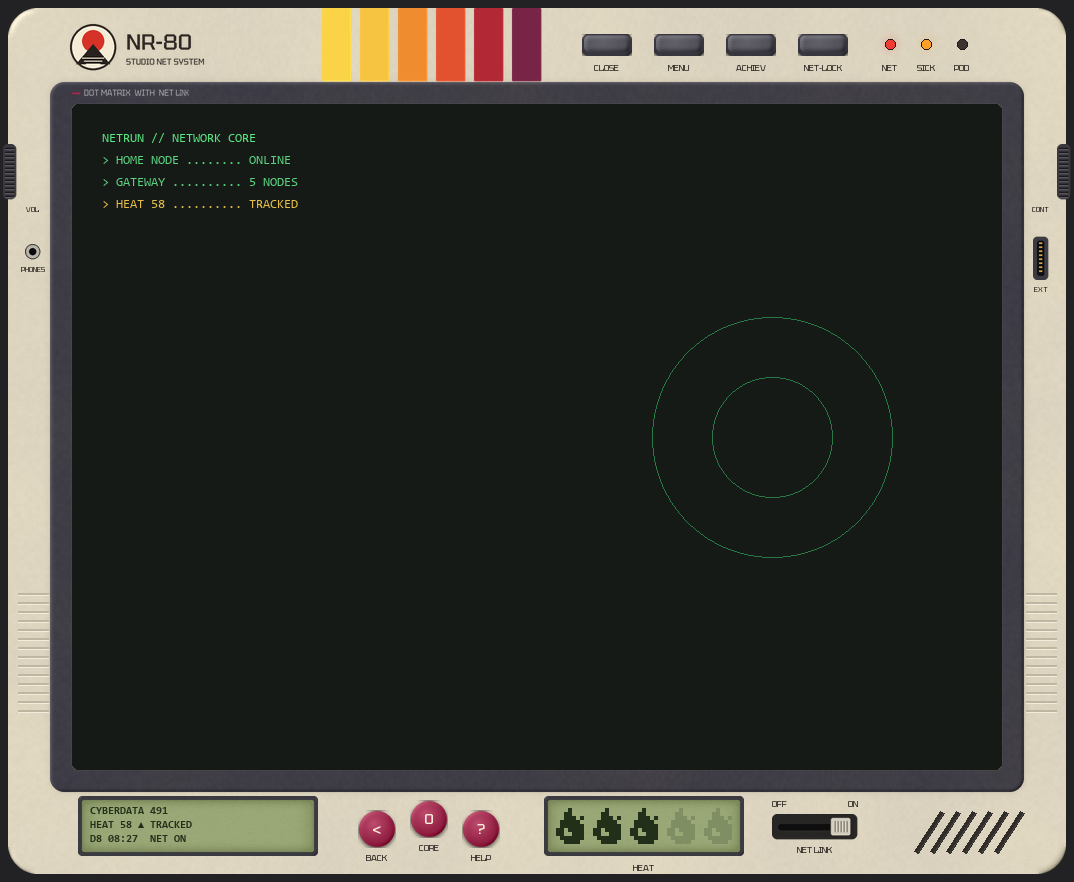
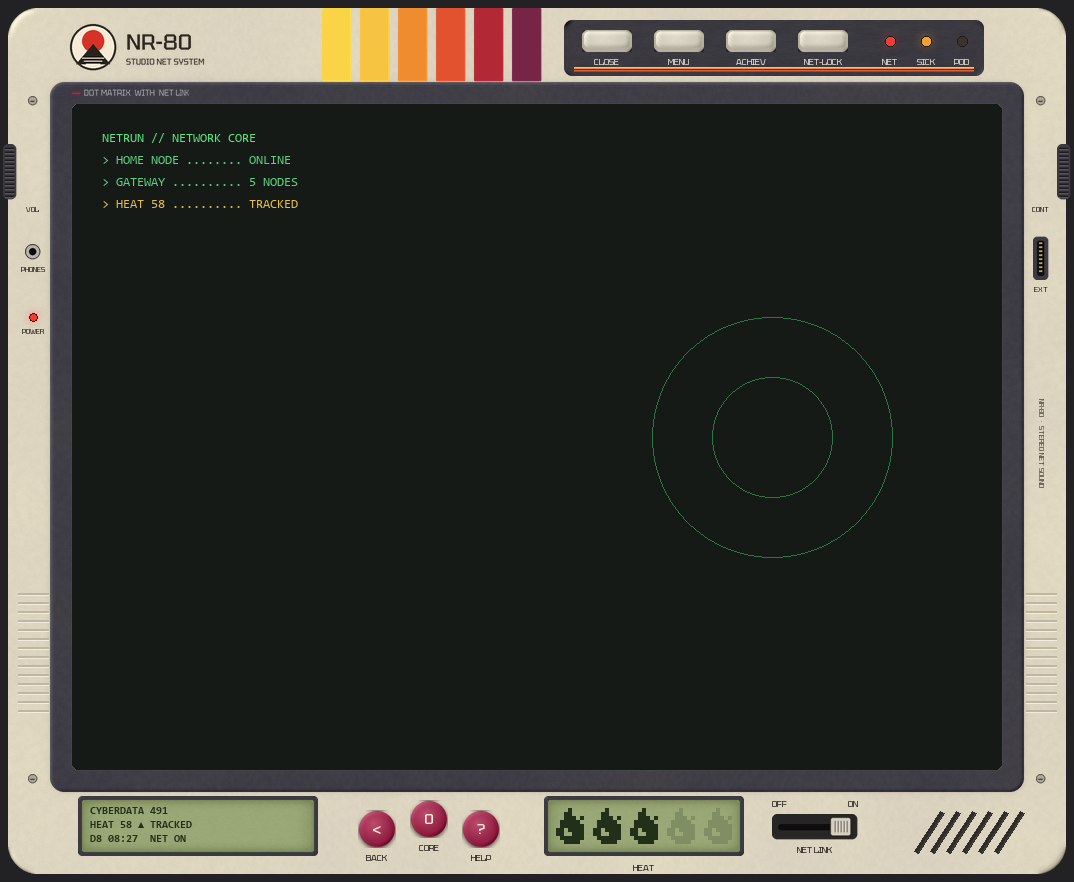
Retro deck D: cream top keys on a sunk dark plate, screws, power lamp and a printed caption on the rails

Changed region(s): [[0.5223, 0.0, 0.9218, 0.0918]]

diff --git a/tools/gen_deck_retro.py b/tools/gen_deck_retro.py
@@ -33,7 +33,7 @@ LCD_INK = (34, 48, 26)
 V = {
     "A": dict(T="Retro_A", base=(222, 214, 192), dark=(64, 62, 70), stripes=SUNSET, accent=(150, 36, 70), key=(70, 68, 76)),
     "B": dict(T="Retro_B", base=(232, 228, 216), dark=(54, 54, 56), stripes=[(246, 186, 40), (232, 96, 36)], accent=(214, 50, 40), key=(54, 54, 56)),
-    "D": dict(T="Retro_D", base=(222, 214, 192), dark=(64, 62, 70), stripes=[(250, 212, 70)] + SUNSET + [(120, 36, 70)], accent=(150, 36, 70), key=(70, 68, 76)),
+    "D": dict(T="Retro_D", base=(222, 214, 192), dark=(64, 62, 70), stripes=[(250, 212, 70)] + SUNSET + [(120, 36, 70)], accent=(150, 36, 70), key=(196, 190, 174)),
     "C": dict(T="Retro_C", base=(92, 60, 42), dark=(40, 30, 24), stripes=[(88, 160, 200), (110, 180, 90), (246, 196, 64), (240, 120, 40), (214, 50, 40)],
               accent=(232, 214, 176), key=(70, 46, 32), cream=(232, 216, 180)),
 }
@@ -175,6 +175,25 @@ def make_port(w=44, h=16):
     return b.done()
 
 
+def make_keyplate(w=120, h=56, base=(58, 56, 64)):
+    """A recessed dark plate under the top keys and lamps, 9-sliced (borders 12), with a thin sunset line at the foot."""
+    m = A.mask((w, h), lambda d, s: d.rounded_rectangle([0, 0, w * s - 1, h * s - 1], 8 * s, fill=255))
+    rgb = plastic(w, h, 1031, base) - (A.shade(m, 2.0) * 40)[..., None]      # sunk in: lit from below-right
+    rgb -= (A.inner_edge(m, 3) * 25)[..., None]
+    img = A.to_img(rgb, m)
+    d = ImageDraw.Draw(img)
+    for i, c in enumerate(SUNSET):
+        d.line([10, h - 9 + i * 1.5, w - 11, h - 9 + i * 1.5], fill=c + (230,), width=1)
+    return img
+
+
+def make_screw(n=10):
+    b = S.Big(n, n)
+    b.ellipse((0, 0, n - 1, n - 1), (170, 164, 150, 255), outline=(90, 84, 74, 255), width=1)
+    b.line([(2.5, n / 2), (n - 3.5, n / 2)], (80, 74, 66, 255), 1.4)
+    return b.done()
+
+
 def make_jack(n=16):
     b = S.Big(n, n)
     b.ellipse((0, 0, n - 1, n - 1), (180, 176, 168, 255), outline=(60, 56, 50, 255), width=1)
@@ -266,6 +285,8 @@ def build(v):
         A.save(make_wheel(), T, "Wheel")
         A.save(make_port(), T, "Port")
         A.save(make_jack(), T, "Jack")
+        A.save(make_keyplate(), T, "KeyPlate")
+        A.save(make_screw(), T, "Screw")
 
 
 def mono(size, bold=True):
@@ -379,23 +400,38 @@ def mock(v, out_path, screen=(930, 666), heat=58, online=True, heat_style="pixel
         port_v = load("Port").rotate(90, expand=True)
         A.over(img, port_v, (int(bx1 - rail / 2 - 12), y0 + 92))
         d.text((bx1 - rail / 2 - 4, y0 + 146), "EXT", font=lab7, fill=INK, anchor="mm")
+        screw = load("Screw")
+        for sxx in (bx0 + rail / 2 + 4 - 5, bx1 - rail / 2 - 4 - 5):
+            for syy in (by0 + IN_T - 8, by1 - IN_B + 4):
+                A.over(img, screw, (int(sxx), int(syy)))
+        A.glow(img, (bx0 + rail / 2 + 1, y0 + 170, bx0 + rail / 2 + 7, y0 + 176), (240, 60, 50), 0.6, 5)
+        d.ellipse([bx0 + rail / 2, y0 + 169, bx0 + rail / 2 + 8, y0 + 177], fill=(240, 60, 50), outline=(60, 20, 20))
+        d.text((bx0 + rail / 2 + 4, y0 + 188), "POWER", font=lab7, fill=INK, anchor="mm")
+        cap_img = Image.new("RGBA", (220, 14), (0, 0, 0, 0))
+        ImageDraw.Draw(cap_img).text((110, 7), "NR-80  \u00b7  STEREO NET SOUND", font=lab7, fill=INK + (200,), anchor="mm")
+        A.over(img, cap_img.rotate(-90, expand=True), (int(bx1 - rail / 2 - 11), y0 + 190))
         for k in range(14):                       # grip ridges low on both rails
             yy = by1 - IN_B - 60 - k * 9
             for xa in (bx0 + 10, bx1 - rail + 2):
                 d.line([xa, yy, xa + rail - 12, yy], fill=(190, 182, 160), width=2)
                 d.line([xa, yy + 2, xa + rail - 12, yy + 2], fill=(242, 236, 220), width=1)
+    top_ink = ink
+    if v == "D":   # the keys and lamps sit on a sunk dark plate (Maxim: they looked bare)
+        plate_r = (kx - 18, top_y - 6, bx1 - IN_R - 112 + 2 * 36 + 22 - (kx - 18), 56)
+        A.over(img, A.nine_slice(load("KeyPlate"), plate_r[2:], 12, 12, 12, 12), plate_r[:2])
+        top_ink = (226, 222, 210)
     for i, name in enumerate(("CLOSE", "MENU", "ACHIEV", "NET-LOCK")):
         x = kx + i * 72
         pill = load("Pill")
-        A.over(img, pill, (x, top_y + 8))
-        d.text((x + 25, top_y + 42), name, font=lab, fill=ink, anchor="mm")
+        A.over(img, pill, (x, top_y + 4))
+        d.text((x + 25, top_y + 36), name, font=lab, fill=top_ink, anchor="mm")
     lx = bx1 - IN_R - 112
     for i, (c, name) in enumerate((((240, 60, 50), "NET"), ((250, 160, 40), "SICK"), ((60, 50, 50), "POD"))):
-        cx, cy = lx + i * 36, top_y + 18
+        cx, cy = lx + i * 36, top_y + 15
         if i < 2:
             A.glow(img, (cx - 3, cy - 3, cx + 3, cy + 3), c, 0.6, 5)
         d.ellipse([cx - 5, cy - 5, cx + 5, cy + 5], fill=c, outline=(30, 26, 24))
-        d.text((cx, top_y + 42), name, font=lab, fill=ink, anchor="mm")
+        d.text((cx, top_y + 36), name, font=lab, fill=top_ink, anchor="mm")
 
     # bottom: LCD, round keys BACK CORE HELP (A/B style), the VU meter, the NET LINK slide switch
     yb = by1 - IN_B
